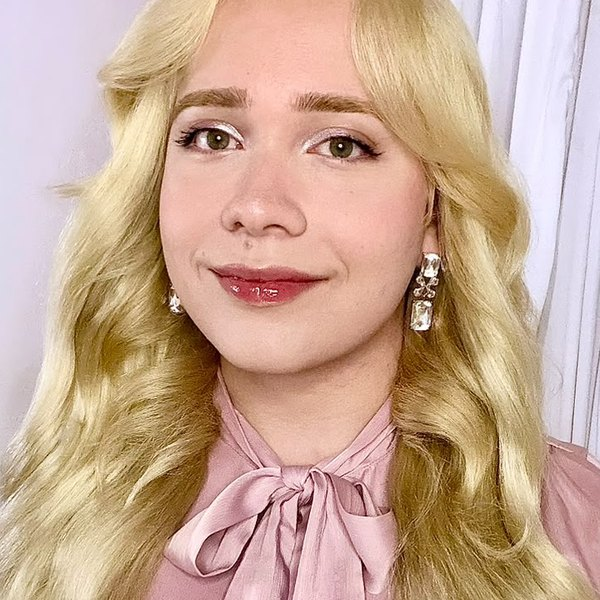
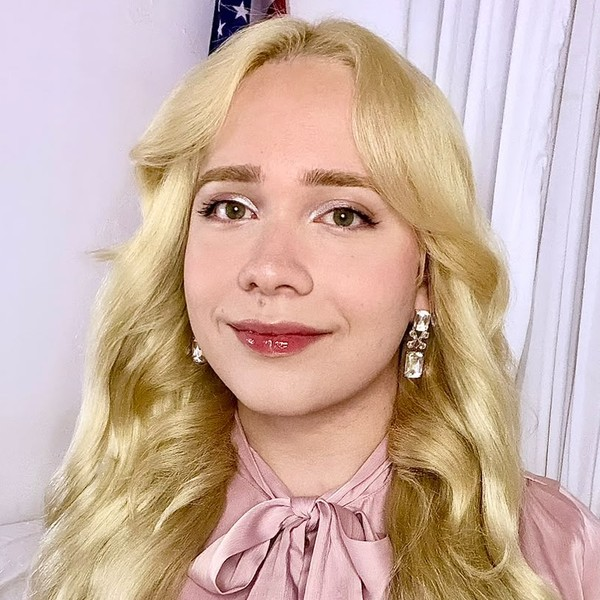
Add files via upload

diff --git a/index.html b/index.html
@@ -19,7 +19,7 @@
     --muted:#6E625A;
     --mauve:#B07A82;        /* dusty rose accent */
     --mauve-deep:#8A5560;
-    --gold:#C9A66B;
+    --gold:#CFA0A8;
     --blush:#EFE6D8;
     --blush-soft:#F8F3EB;
     --line:#E6DCCD;
@@ -35,7 +35,7 @@
     --muted:#C3B6A8;
     --mauve:#D4A2AA;
     --mauve-deep:#E9C3C9;
-    --gold:#C9A66B;
+    --gold:#D4A2AA;
     --blush:#2E2622;
     --blush-soft:#1B1714;
     --line:#352C26;
@@ -65,7 +65,7 @@
   nav ul a:hover{color:var(--mauve-deep);}
 
   /* Hero */
-  .hero{position:relative; background:linear-gradient(120deg, var(--paper) 0%, var(--blush) 100%); padding:90px 0 150px;}
+  .hero{position:relative; background:linear-gradient(120deg, var(--paper) 0%, var(--blush) 100%); padding:44px 0 130px;}
   .hero .wrap{display:grid; grid-template-columns:1.5fr 1fr; gap:40px; align-items:center;}
   .eyebrow{font-size:0.78rem; letter-spacing:0.22em; text-transform:uppercase; color:var(--mauve-deep); margin-bottom:18px;}
   .hero h1{font-size:clamp(2.6rem,6vw,4.4rem); font-weight:700; color:var(--ink);}
@@ -222,7 +222,7 @@
   .contact .btns{justify-content:center;}
   .contact .btn-soft{background:transparent; color:var(--on-wine); border:1px solid #5C4F45;}
   .contact .btn-main{background:var(--gold); color:#2B2420;}
-  .contact .btn-main:hover{background:#D9BC88;}
+  .contact .btn-main:hover{background:#E2BCC2;}
   footer{padding:70px 0 30px; font-size:0.75rem; color:#9A8C7E; font-family:'IBM Plex Mono',monospace;}
 
   /* Reveal */
@@ -232,7 +232,7 @@
   @media (max-width:820px){
     nav ul{display:none;}
     .photo{width:96px; height:96px;}
-    .hero{padding:60px 0 130px;}
+    .hero{padding:32px 0 110px;}
     .hero .wrap{grid-template-columns:1fr;}
     .video-card{margin-top:10px;}
     .about{grid-template-columns:1fr;}
@@ -306,7 +306,7 @@
     <div class="head"><span class="num">01</span><h2>About me</h2><div class="rule"></div></div>
     <div class="about reveal">
       <div>
-        <p>I'm a full-stack developer and project manager. I build web and mobile apps with React, React Native, NestJS and PostgreSQL, and I've published apps to the App Store and Google Play. Since 2022 I've also worked freelance, building websites and online stores for small businesses, from custom e-commerce to Shopify, with a good eye for design and marketing.</p><p>I've worked with remote startups like PandoDev and Alianza Idiomas, and I'm just as comfortable meeting with stakeholders, writing specs and keeping a project on schedule as I am writing code.</p>
+        <p>I'm a full-stack developer and project manager. I build web and mobile apps with React, React Native, NestJS and PostgreSQL, and I've published apps to the App Store and Google Play. Since 2022 I've also worked freelance, building websites, apps and online stores for clients from small businesses to large companies, from custom e-commerce to Shopify, with a good eye for design and marketing.</p><p>I've worked with remote startups like PandoDev and Alianza Idiomas, and I'm just as comfortable meeting with stakeholders, writing specs and keeping a project on schedule as I am writing code.</p>
         <p>Claude Code is part of my daily workflow, but I treat AI as a partner that needs direction: I plan the architecture, guide the implementation, and review and test everything it produces before it ships. I also bring several years of customer service and teaching experience, so I know how to turn unclear needs into concrete next steps.</p>
       </div>
       <div class="card facts">
@@ -358,10 +358,21 @@
         <div class="top"><span class="id">E-commerce · Freelance</span></div>
         <div class="body">
           <h3>So Festive Online Store</h3>
-          <p>Ran the full Shopify store for So Festive and connected it to a custom front end, handling the storefront, products and the design details that help a store sell.</p>
-          <div class="tags"><span class="tag">Shopify</span><span class="tag">Custom front end</span><span class="tag">E-commerce</span></div>
+          <p>Built a custom front end for the So Festive online store, connected to Shopify for the e-commerce side.</p>
+          <div class="tags"><span class="tag">Custom front end</span><span class="tag">Shopify</span><span class="tag">E-commerce</span></div>
           <div class="links">
-            <a href="https://sofestive.com" target="_blank" rel="noopener">Visit store</a>
+            <a href="https://sofestive.com" target="_blank" rel="noopener">Visit site</a>
+          </div>
+        </div>
+      </article>
+      <article class="card project">
+        <div class="top"><span class="id">Confidential · NDA</span></div>
+        <div class="body">
+          <h3>Client Work Under NDA</h3>
+          <p>Most of my work is for clients I can't name. It includes web apps, APIs, React Native apps published on iOS and Android, and online stores for clients ranging from startups and small businesses to large companies. I handled everything from the first requirements meeting to launch.</p>
+          <div class="tags"><span class="tag">Web apps</span><span class="tag">Mobile apps</span><span class="tag">E-commerce</span></div>
+          <div class="links">
+            <a href="#contact">Details and walkthroughs available on request</a>
           </div>
         </div>
       </article>
@@ -449,8 +460,8 @@
         <h3>Freelance Web Developer</h3>
         <div class="t-org">Self-employed · Remote</div>
         <ul>
-          <li>Build and maintain websites and online stores for small businesses, working directly with owners.</li>
-          <li>Ran the full Shopify store for So Festive and connected it to a custom front end.</li>
+          <li>Build and maintain websites, apps and online stores for clients from small businesses to large companies.</li>
+          <li>Built a custom front end for the So Festive online store, connected to Shopify for e-commerce.</li>
           <li>Built about 3 e-commerce web apps from scratch, and React Native apps published to the App Store and Google Play.</li>
         </ul>
       </div>
